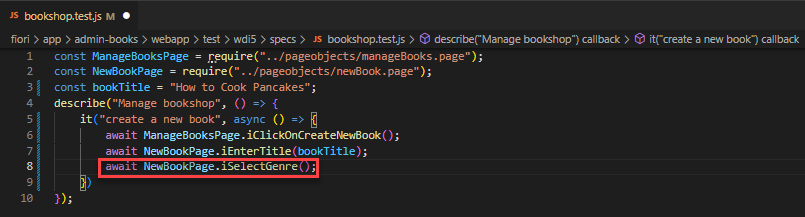
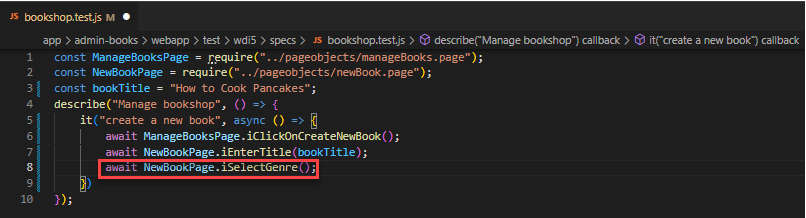
Adapted to new file structure

diff --git a/tutorials/cp-wdi5-cap/cp-wdi5-cap.md b/tutorials/cp-wdi5-cap/cp-wdi5-cap.md
@@ -105,7 +105,7 @@ In Visual Studio Code, set up and run your bookshop application.
 
 9. Open a new Terminal, for that choose **Terminal** **→** **New Terminal**
 
-10. Use the command `npm init wdi5@latest -- --configPath ./fiori/app/admin-books/webapp/test/wdi5/ --specs ./**/wdi5/specs/**.js --baseUrl http://localhost:4004/fiori-apps.html\#Books-manage` to call the quickstart installation of wdi5.
+10. Use the command `npm init wdi5@latest -- --configPath ./app/admin-books/webapp/test/wdi5/ --specs ./**/wdi5/specs/**.js --baseUrl http://localhost:4004/fiori-apps.html\#Books-manage` to call the quickstart installation of wdi5.
 
     The console output should look as follows:
 
@@ -201,7 +201,7 @@ Familiarize yourself with your test scenario before starting to code it. Later, 
 
 2. Choose **Create**:
 
-    !![Create button in bookshop app](createButton.png)
+    ![Create button in bookshop app](CreateButton.png)
 
 3. Enter the title of your new book, for example, *How to Cook Pancakes*:
 
@@ -282,7 +282,7 @@ Create a wdi5 script to test the creation of a new book in your bookshop applica
 
     Now, the Test Recorder provides a code snippet for your test:
 
-    ![Test recorder provides code snippet for wdi5 test](SelectDialectwdi5.gif)
+    ![Test recorder provides code snippet for wdi5 test](SelectDialectwdi5.png)
 
     Please make sure that the dialect *wdi5* is selected.
 
@@ -333,7 +333,7 @@ Create a wdi5 script to test the addition of detailed information to your newly 
 
 6. Copy this code snippet into the `module.exports` section of your `newBook.page.js` and name the function `iEnterTitle`.
 
-    Here, pass the `sTitle` as an argument in the function name and use it in the `enterText()` method.
+    Here, pass the `sBook` as an argument in the function name and use it in the `enterText()` method.
 
     ![Code snippet for enter title action in newBook page object](EnterTitleSnippet.png)
 
@@ -437,11 +437,11 @@ Create a wdi5 script to test the addition of detailed information to your newly 
 
 25. In the list of books of your bookshop application, right-click the title of the book you've created and choose **Highlight**. Make sure that only the specific Title of the row is blue highlighted and not the whole row.
 
-26. On the right side of the Test Recorder window you find a section with Properties and Bindings. Choose the icon that is located on the left of the property *visible* in the *Inherited* section. This will add `expect(visible).toBeTruthy();` to the code snippet. => TODO(Georg,Simon): Shall we use that as assertion
+26. On the right side of the Test Recorder window you find a section with Properties and Bindings. Choose the icon that is located on the left of the property *visible* in the *Inherited* section. This will add `expect(visible).toBeTruthy();` to the code snippet.
 
     ![Test recorder highlights the book entry](Title-HighlightEvent.gif)
 
-27. Copy the generated code snippet into the `module.exports` section of your `manageBooks.page.js` and name the function `theBookListContains`.
+27. Copy the generated code snippet into the `module.exports` section of your `manageBooks.page.js` and name the function `theBookListContains`. Here, pass the `sBook` as an argument in the function name and use it in the locator to identify the control by its text.
 
     It look as follows:
 
